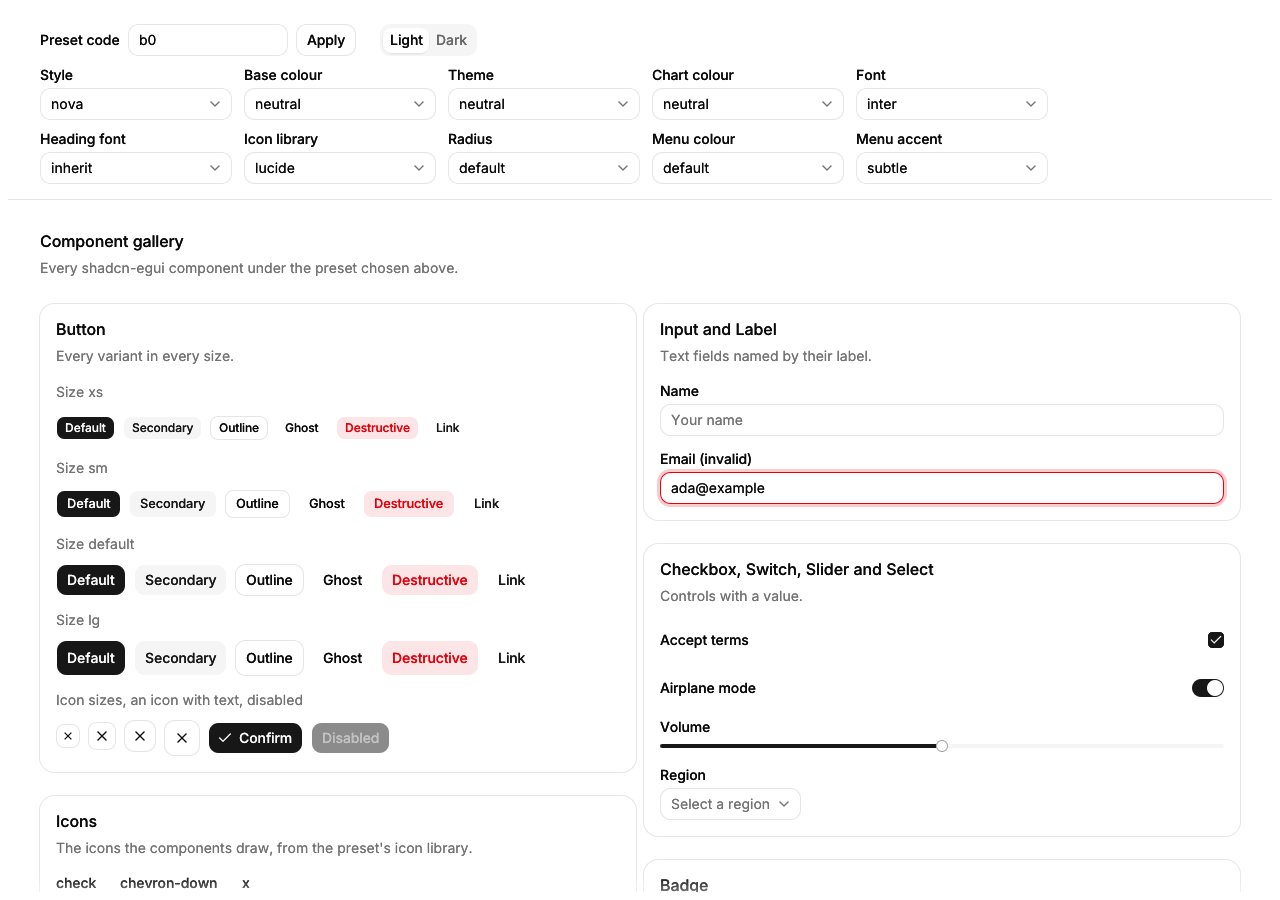
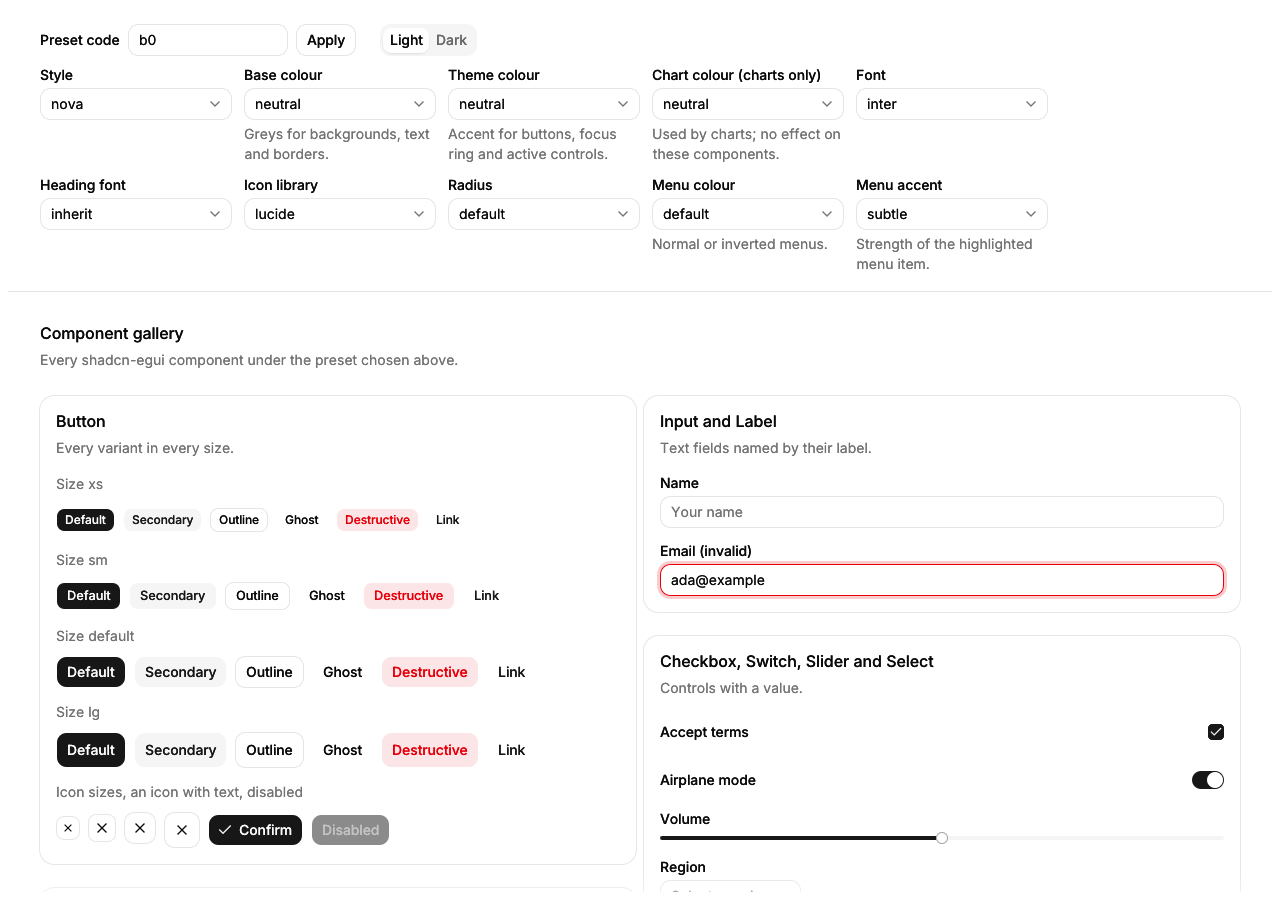
feat(example): gallery explains the colour pickers
The "Theme" picker is now "Theme colour" and the chart picker says
"(charts only)". Base colour, theme colour, chart colour, menu colour and
menu accent each get a muted help line under the select, wrapped at the
fixed select width; the rows of the preset bar align at the top. The
snapshots grow by the taller bar. docs/components-screen.png, no longer
referenced by the README, is removed.

diff --git a/crates/shadcn-egui/src/reference.rs b/crates/shadcn-egui/src/reference.rs
@@ -357,26 +357,34 @@ const PART_WIDTH: f32 = 192.0;
 
 /// One preset part: its label over a select of `options`, `current` the
 /// index of the preset's value (`None`: not offered, shown as the
-/// placeholder `missing`). Returns the newly picked index.
+/// placeholder `missing`), and a muted `help` line under it. Returns the
+/// newly picked index.
 fn part_select(
     ui: &mut egui::Ui,
-    name: &str,
+    (name, help): (&str, Option<&str>),
     options: &[&str],
     current: Option<usize>,
     missing: &str,
 ) -> Option<usize> {
     let mut idx = current.unwrap_or(usize::MAX);
     let mut picked = None;
-    field(ui, name, |ui| {
-        let resp = ui.add(
-            Select::new(name, &mut idx, options)
-                .placeholder(missing)
-                .width(PART_WIDTH),
-        );
-        if resp.changed() && idx < options.len() {
-            picked = Some(idx);
+    layout::vstack(ui, 6.0, |ui| {
+        // The help line wraps at the select's width.
+        ui.set_max_width(PART_WIDTH);
+        field(ui, name, |ui| {
+            let resp = ui.add(
+                Select::new(name, &mut idx, options)
+                    .placeholder(missing)
+                    .width(PART_WIDTH),
+            );
+            if resp.changed() && idx < options.len() {
+                picked = Some(idx);
+            }
+            resp
+        });
+        if let Some(help) = help {
+            description(ui, help);
         }
-        resp
     });
     picked
 }
@@ -384,7 +392,7 @@ fn part_select(
 /// [`part_select`] over `all`, named by `id`; the preset's value is `value`.
 fn enum_select<T: Copy + PartialEq>(
     ui: &mut egui::Ui,
-    name: &str,
+    name: (&str, Option<&str>),
     all: &[T],
     id: impl Fn(T) -> &'static str,
     value: &mut T,
@@ -442,16 +450,17 @@ fn preset_bar(ui: &mut egui::Ui, state: &mut GalleryState) {
 /// The preset parts, one select each, in the order of the shadcn create page.
 const PART_COUNT: usize = 10;
 
-/// The preset part selects in rows of as many as fit the width. egui's
-/// wrapping layout cannot wrap a label-over-select stack, so the rows are
-/// counted here.
+/// The preset part selects in rows of as many as fit the width, aligned at
+/// the top (only some parts have a help line). egui's wrapping layout cannot
+/// wrap a label-over-select stack, so the rows are counted here.
 fn preset_selects(ui: &mut egui::Ui, p: &mut Preset) {
     let gap = 12.0;
     let per_row = (((ui.available_width() + gap) / (PART_WIDTH + gap)) as usize).max(1);
     let parts: Vec<usize> = (0..PART_COUNT).collect();
     layout::vstack(ui, gap, |ui| {
         for chunk in parts.chunks(per_row) {
-            layout::row(ui, gap, |ui| {
+            ui.with_layout(egui::Layout::left_to_right(egui::Align::Min), |ui| {
+                ui.spacing_mut().item_spacing.x = gap;
                 for &i in chunk {
                     preset_part(ui, i, p);
                 }
@@ -470,23 +479,44 @@ fn preset_part(ui: &mut egui::Ui, i: usize, p: &mut Preset) {
             .collect()
     };
     match i {
-        0 => enum_select(ui, "Style", &StyleName::ALL, StyleName::id, &mut p.style),
+        0 => enum_select(
+            ui,
+            ("Style", None),
+            &StyleName::ALL,
+            StyleName::id,
+            &mut p.style,
+        ),
         1 => enum_select(
             ui,
-            "Base colour",
+            (
+                "Base colour",
+                Some("Greys for backgrounds, text and borders."),
+            ),
             &BaseColor::ALL,
             BaseColor::id,
             &mut p.base_color,
         ),
-        2 => enum_select(ui, "Theme", &ThemeColor::ALL, ThemeColor::id, &mut p.theme),
+        2 => enum_select(
+            ui,
+            (
+                "Theme colour",
+                Some("Accent for buttons, focus ring and active controls."),
+            ),
+            &ThemeColor::ALL,
+            ThemeColor::id,
+            &mut p.theme,
+        ),
         3 => enum_select(
             ui,
-            "Chart colour",
+            (
+                "Chart colour (charts only)",
+                Some("Used by charts; no effect on these components."),
+            ),
             &ThemeColor::ALL,
             ThemeColor::id,
             &mut p.chart_color,
         ),
-        4 => enum_select(ui, "Font", &fonts(), FontName::id, &mut p.font),
+        4 => enum_select(ui, ("Font", None), &fonts(), FontName::id, &mut p.font),
         5 => {
             let headings: Vec<FontHeading> = std::iter::once(FontHeading::Inherit)
                 .chain(fonts().into_iter().map(FontHeading::Font))
@@ -495,7 +525,13 @@ fn preset_part(ui: &mut egui::Ui, i: usize, p: &mut Preset) {
                 FontHeading::Inherit => "inherit",
                 FontHeading::Font(f) => f.id(),
             };
-            enum_select(ui, "Heading font", &headings, id, &mut p.font_heading);
+            enum_select(
+                ui,
+                ("Heading font", None),
+                &headings,
+                id,
+                &mut p.font_heading,
+            );
         }
         6 => {
             let libraries: Vec<IconLibrary> = IconLibrary::ALL
@@ -504,7 +540,7 @@ fn preset_part(ui: &mut egui::Ui, i: usize, p: &mut Preset) {
                 .collect();
             enum_select(
                 ui,
-                "Icon library",
+                ("Icon library", None),
                 &libraries,
                 IconLibrary::id,
                 &mut p.icons,
@@ -513,21 +549,24 @@ fn preset_part(ui: &mut egui::Ui, i: usize, p: &mut Preset) {
         // Every listed radius has an id; only `Px`, which no code names, lacks one.
         7 => enum_select(
             ui,
-            "Radius",
+            ("Radius", None),
             &RadiusChoice::ALL,
             |r| r.id().unwrap_or("custom"),
             &mut p.radius,
         ),
         8 => enum_select(
             ui,
-            "Menu colour",
+            ("Menu colour", Some("Normal or inverted menus.")),
             &MenuColor::ALL,
             MenuColor::id,
             &mut p.menu_color,
         ),
         _ => enum_select(
             ui,
-            "Menu accent",
+            (
+                "Menu accent",
+                Some("Strength of the highlighted menu item."),
+            ),
             &MenuAccent::ALL,
             MenuAccent::id,
             &mut p.menu_accent,

diff --git a/crates/shadcn-egui/tests/gallery.rs b/crates/shadcn-egui/tests/gallery.rs
@@ -7,7 +7,7 @@ use shadcn_egui::reference::{gallery_ui, GalleryState};
 use shadcn_egui::{Mode, Preset, Theme};
 
 /// Tall enough that nothing needs scrolling.
-const FULL: egui::Vec2 = egui::vec2(1280.0, 1320.0);
+const FULL: egui::Vec2 = egui::vec2(1280.0, 1420.0);
 
 /// The gallery in a harness, its page colour also under kittest's 8px outer
 /// margin, so no band of another colour shows.
@@ -101,12 +101,12 @@ fn the_dialog_closes_on_its_own_buttons() {
 #[test]
 fn gallery_after_applying_a_code() {
     // Luma's larger controls need more height.
-    let mut h = harness(GalleryState::default(), egui::vec2(1280.0, 1440.0));
+    let mut h = harness(GalleryState::default(), egui::vec2(1280.0, 1540.0));
     h.state_mut().code = "b2D0wqNxT".into();
     h.get_by_role_and_label(Role::Button, "Apply").click();
     h.run();
     // Leave the Apply button unhovered.
-    h.hover_at(egui::pos2(1270.0, 1430.0));
+    h.hover_at(egui::pos2(1270.0, 1530.0));
     h.run();
     h.snapshot("gallery_code_b2D0wqNxT_light");
 }
